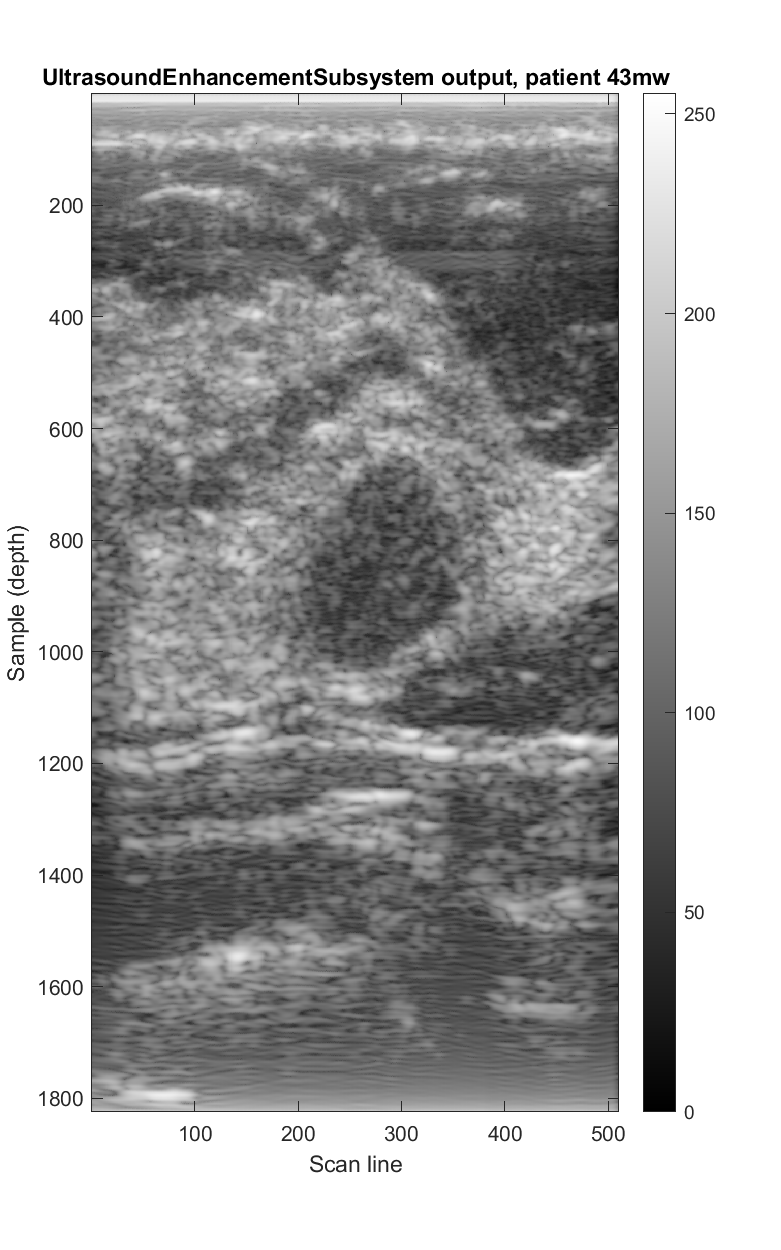
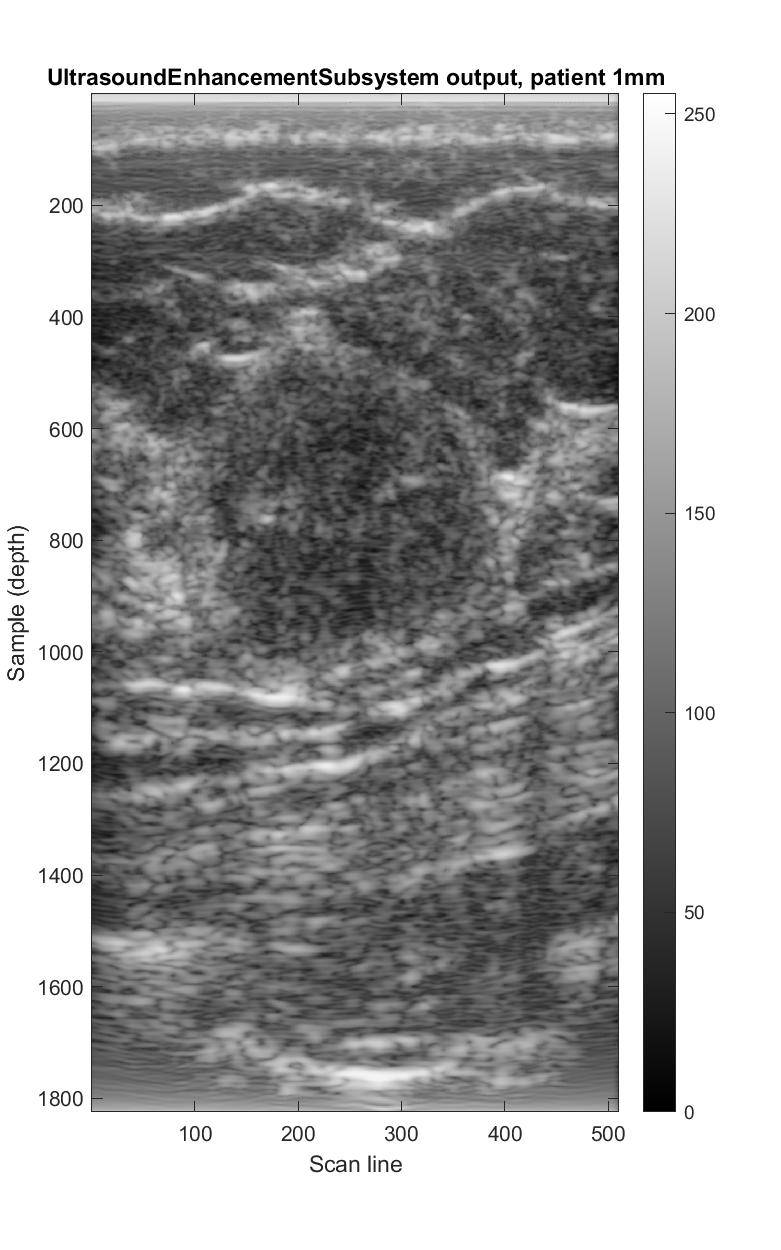
Simulink: update output range to the current bundled sample (9.55 to 244.25) and regenerate the figure
The bundled sample was replaced in 985a0dc, so the earlier 10.51 to 247.38 range came from the old first patient. The driver output and figure are from run_enhancement_subsystem.m on the current sample.

diff --git a/README.md b/README.md
@@ -210,7 +210,7 @@ Preprocessing choice: the B-mode is scaled to uint8 directly, with no min-max re
 
 `Simulink/UltrasoundPipelineDiagram.slx` is an architecture diagram of the five pipeline stages.
 
-`Simulink/UltrasoundEnhancementSubsystem.slx` is a functional model. A From Workspace block feeds an OASBUD RF matrix (`rf_ts`) through two MATLAB Function blocks, EnvelopeDetection (Hilbert envelope, 60 dB log compression, normalised to 0 to 1) and Enhancement (the Phase 3 bilateral filter, scaled to 0 to 255), into a To Workspace block (`enhanced_bmode`). Run it with `Simulink/run_enhancement_subsystem.m`, which builds `rf_ts` as a timeseries shaped [nSamples nElements nTime], calls `sim`, shows the output and checks that it is finite, the size of the input and not all zero. On the first bundled sample patient the output is 1824 x 510 with values from 10.51 to 247.38 (`results/figures/Simulink/Simulink_Functional_Output.png`). The model uses log compression for display, while the deployed classifier path uses the gamma 0.3 power law. CNN training, GPU Coder acceleration and deployment were done in MATLAB and Holoscan.
+`Simulink/UltrasoundEnhancementSubsystem.slx` is a functional model. A From Workspace block feeds an OASBUD RF matrix (`rf_ts`) through two MATLAB Function blocks, EnvelopeDetection (Hilbert envelope, 60 dB log compression, normalised to 0 to 1) and Enhancement (the Phase 3 bilateral filter, scaled to 0 to 255), into a To Workspace block (`enhanced_bmode`). Run it with `Simulink/run_enhancement_subsystem.m`, which builds `rf_ts` as a timeseries shaped [nSamples nElements nTime], calls `sim`, shows the output and checks that it is finite, the size of the input and not all zero. On the first bundled sample patient the output is 1824 x 510 with values from 9.55 to 244.25 (`results/figures/Simulink/Simulink_Functional_Output.png`). The model uses log compression for display, while the deployed classifier path uses the gamma 0.3 power law. CNN training, GPU Coder acceleration and deployment were done in MATLAB and Holoscan.
 
 ![Simulink Pipeline Diagram](Project%20Figures/Simulink/Simulink_Pipeline_Diagram_Simple.png)
 
@@ -242,7 +242,7 @@ Environment variables used:
 5. `Phase7_PhasedArrayToolbox_RealData` and `FK_Migration_MultiAngle_Test` with `PLANEWAVE_DATA_PATH`, `RESULTS_DIR`. The second prints `CNR improvement: 63.4%`. Writes `figures/Phase5/toolbox_tdb_vs_das.png` and `figures/Phase7/`.
 6. `Phase5_ReconstructionComparison` and `Phase5_BeamformingImproved` with `OASBUD_PATH` (optional), `RESULTS_DIR`. Comparison figures only.
 7. `aline_run_codegen` and `das_run_codegen_planewave` (GPU Coder, CUDA 12.6, VS2022). Write CUDA source to `codegen/lib/aline_reconstruct/` and `codegen/lib/das_beamform_planewave/`; the committed copies of that source are already there.
-8. From `Simulink/`: `run_enhancement_subsystem` with `RESULTS_DIR`. Prints `Simulink output: 1824 x 510, range 10.51 to 247.38`.
+8. From `Simulink/`: `run_enhancement_subsystem` with `RESULTS_DIR`. Prints `Simulink output: 1824 x 510, range 9.55 to 244.25`.
 
 **Holoscan (WSL2, Python 3.10, Holoscan 4.2.0):**
 
